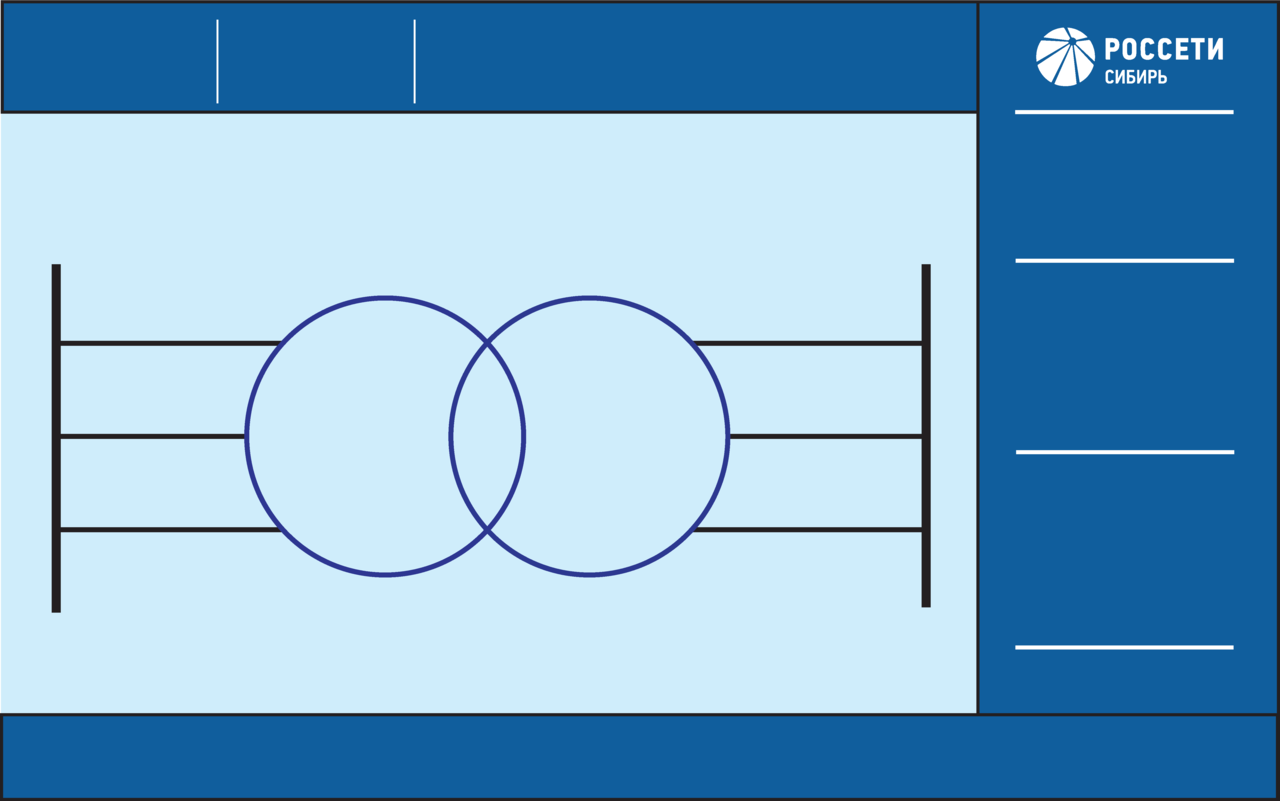
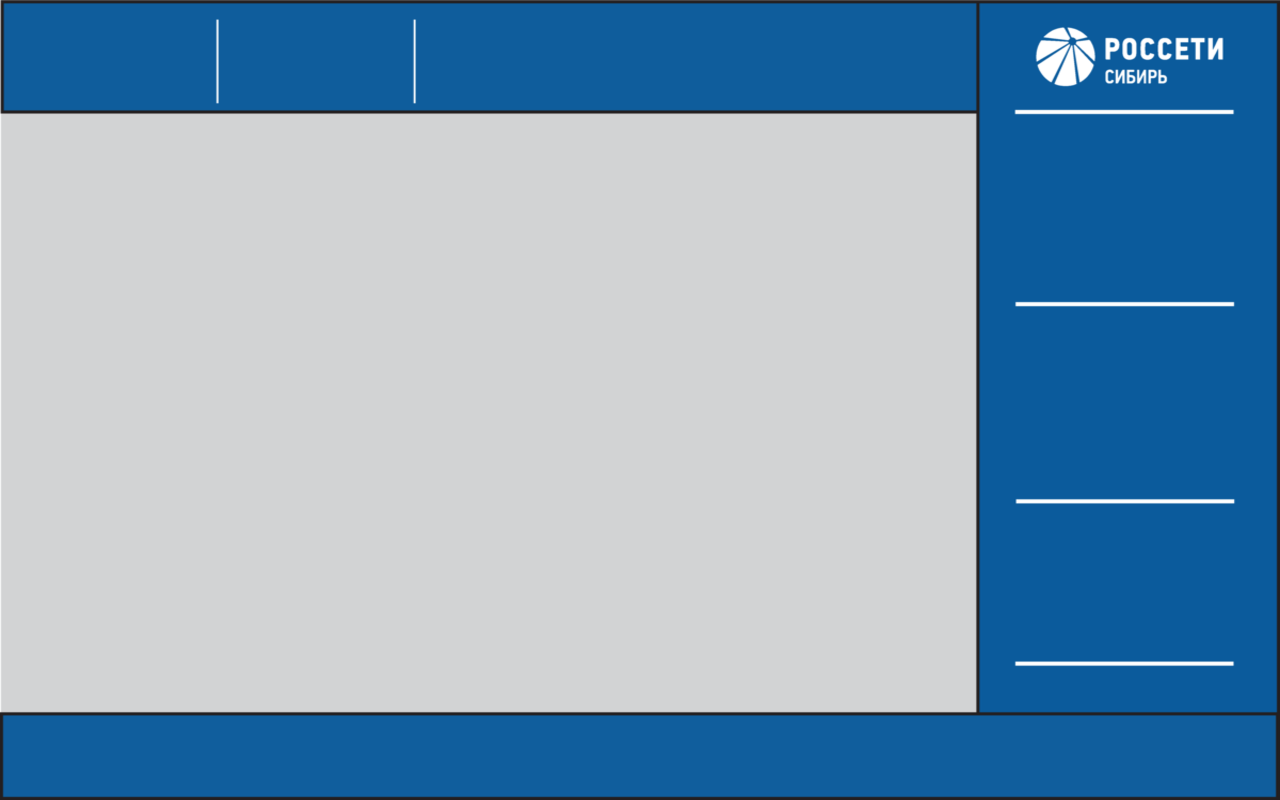
20.03.25

diff --git a/src/main/java/org/example/loadingdevicesoftware/pagesControllers/_7_DifProtectionScreenController.java b/src/main/java/org/example/loadingdevicesoftware/pagesControllers/_7_DifProtectionScreenController.java
@@ -3,11 +3,8 @@ package org.example.loadingdevicesoftware.pagesControllers;
 import javafx.event.ActionEvent;
 import javafx.fxml.FXML;
 
-import javafx.fxml.FXMLLoader;
 import javafx.scene.Node;
 
-import javafx.scene.Parent;
-import javafx.scene.Scene;
 import javafx.scene.control.Button;
 import javafx.scene.control.TextField;
 import javafx.scene.control.ToggleButton;
@@ -21,28 +18,10 @@ import javafx.scene.text.Text;
 import org.example.loadingdevicesoftware.logicAndSettingsOfInterface.*;
 
 import java.io.IOException;
-import java.util.HashMap;
-import java.util.Map;
 import java.util.Objects;
 
 
 public class _7_DifProtectionScreenController {
-
-
-
-
-    public void lookButtonIfDo() {
-        System.out.println("lookButtonIfDo");
-    }
-
-
-
-
-
-
-
-
-
 
     //Кнопки
     @FXML
@@ -81,6 +60,7 @@ public class _7_DifProtectionScreenController {
     //Объект фоновой картинки
     Image backImageOutSC = new Image(Objects.requireNonNull(getClass().
             getResource("/screen/7.дифзащита/диф_защита_1форма(без кнопок).png")).toExternalForm());
+
     private boolean windingOneStatus = false;
     private boolean windingTwoStatus = false;
     private boolean isLocationPressed = false;
@@ -106,6 +86,7 @@ public class _7_DifProtectionScreenController {
     private ImageView contactOneView;
     @FXML
     private ImageView contactTwoView;
+
     //Текстовые поля для ввода данных
     @FXML
     private ToggleButton phaseAButton;
@@ -170,9 +151,18 @@ public class _7_DifProtectionScreenController {
     private Circle indicatorContactTwo;
     // они закомичены по причине ненужности, но они работают
     @FXML
-    private Line linePhaseA;
+    private Line linePhaseA1;
     @FXML
-    private Button changerButton;
+    private Line linePhaseB1;
+    @FXML
+    private Line linePhaseC1;
+    @FXML
+    private Line linePhaseA2;
+    @FXML
+    private Line linePhaseB2;
+    @FXML
+    private Line linePhaseC2;
+
 
 
 
@@ -252,12 +242,19 @@ public class _7_DifProtectionScreenController {
         disableOrEnablePhaseButtons();
 
 
-//        ТЕСТОВЫЕ ФУНКЦИИ
+
+//ТЕСТОВЫЕ ФУНКЦИИ
         //Настройка индикаторов контактов
         blinkingIndicator();
+
         //метод по изменению цвета линии
         changeColorLine();
     }
+
+
+
+
+
 
     @FXML
     public void goToMainScreen(ActionEvent event) throws IOException {
@@ -311,19 +308,27 @@ public class _7_DifProtectionScreenController {
 
 
     //Метод по смене цвета у линии. Нужно, чтобы перейти к новому дизайну
-    @FXML
     public void changeColorLine() {
-
-        changerButton.setOnAction(event -> {
-            if (linePhaseA.getStroke().equals(Color.BLACK)) {
-                linePhaseA.setStroke(Color.RED);
-                linePhaseA.setStrokeWidth(8.0);
+        phaseAButton.setOnAction(event -> {
+            if (linePhaseA1.getStroke().equals(Color.BLACK)) {
+                linePhaseA1.setStroke(Color.RED);
+                linePhaseA1.setStrokeWidth(8.0);
+                linePhaseA2.setStroke(Color.RED);
+                linePhaseA2.setStrokeWidth(8.0);
+                commonMethodForRightSideButtons(phaseAButton);
             } else {
-                linePhaseA.setStroke(Color.BLACK);
-                linePhaseA.setStrokeWidth(5.0);
+                linePhaseA1.setStroke(Color.BLACK);
+                linePhaseA1.setStrokeWidth(5.0);
+                linePhaseA2.setStroke(Color.BLACK);
+                linePhaseA2.setStrokeWidth(5.0);
+                commonMethodForRightSideButtons(phaseAButton);
             }
         });
     }
+
+
+
+
 
     //метод для настройки кнопок в правой части окна сценария диф.защиты
     public void setupRightSideButtons(ToggleButton button) {
@@ -475,9 +480,6 @@ public class _7_DifProtectionScreenController {
         } else {
             setupRightSideButtons(toggleButton);
         }
-        backgroundImageView.setImage(selectImage(shortCircuitLocationButton.isSelected(), phaseAButton.isSelected(),
-                phaseBButton.isSelected(), phaseCButton.isSelected(), groundButton.isSelected(),
-                feedingWindingButton.isSelected()));
     }
 
     /**
@@ -498,66 +500,8 @@ public class _7_DifProtectionScreenController {
             toggleButton.setText(textIfNotSelected);
             setupRightSideButtons(toggleButton);
         }
-        backgroundImageView.setImage(selectImage(shortCircuitLocationButton.isSelected(), phaseAButton.isSelected(),
-                phaseBButton.isSelected(), phaseCButton.isSelected(), groundButton.isSelected(),
-                feedingWindingButton.isSelected()));
     }
 
-    private Image selectImage(boolean shortCircuitLocation, boolean phaseA, boolean phaseB, boolean phaseC,
-                              boolean ground, boolean sendingWinding) {
 
-        return getProperPicture(shortCircuitLocation, phaseA, phaseB, phaseC, ground, sendingWinding);
-    }
 
-    private Image getProperPicture(boolean shortCircuitLocation, boolean phaseA, boolean phaseB, boolean phaseC,
-                                   boolean ground, boolean sendingWinding) {
-        String winding;
-
-        if (sendingWinding) {
-            winding = "RS_";
-        } else {
-            winding = "SR_";
-        }
-
-        String phaseCombination = getPhasesCombination(phaseA, phaseB, phaseC, ground);
-
-        String location;
-
-        if (shortCircuitLocation) {
-            location = "I";
-        } else {
-            location = "O";
-        }
-        String fileName = winding + phaseCombination + location;
-
-        return new Image(Objects.requireNonNull(getClass().
-                getResource("/screen/7.дифзащита/" + fileName + ".png")).toExternalForm());
-    }
-
-    private String getPhasesCombination(boolean phaseA, boolean phaseB, boolean phaseC,
-                                        boolean ground) {
-
-        Map<String, String> hashMap = new HashMap<>();
-
-        hashMap.put("true,false,false,false", "A_");
-        hashMap.put("true,true,false,false", "AB_");
-        hashMap.put("true,true,true,false", "ABC_");
-        hashMap.put("true,true,true,true", "ABCG_");
-        hashMap.put("false,true,false,false", "B_");
-        hashMap.put("false,true,true,false", "BC_");
-        hashMap.put("false,true,true,true", "BCG_");
-        hashMap.put("false,false,true,false", "C_");
-        hashMap.put("false,false,true,true", "C_");
-        hashMap.put("true,false,false,true", "A_");
-        hashMap.put("false,true,false,true", "B_");
-        hashMap.put("true,false,true,false", "AC_");
-        hashMap.put("true,false,true,true", "ACG_");
-        hashMap.put("true,true,false,true", "ABG_");
-        hashMap.put("false,false,false,true", "G_");
-        hashMap.put("false,false,false,false", "");
-
-        String key = phaseA + "," + phaseB + "," + phaseC + "," + ground;
-
-        return hashMap.getOrDefault(key, ""); // Возвращаем картинку по умолчанию, если комбинация не найдена
-    }
 }
